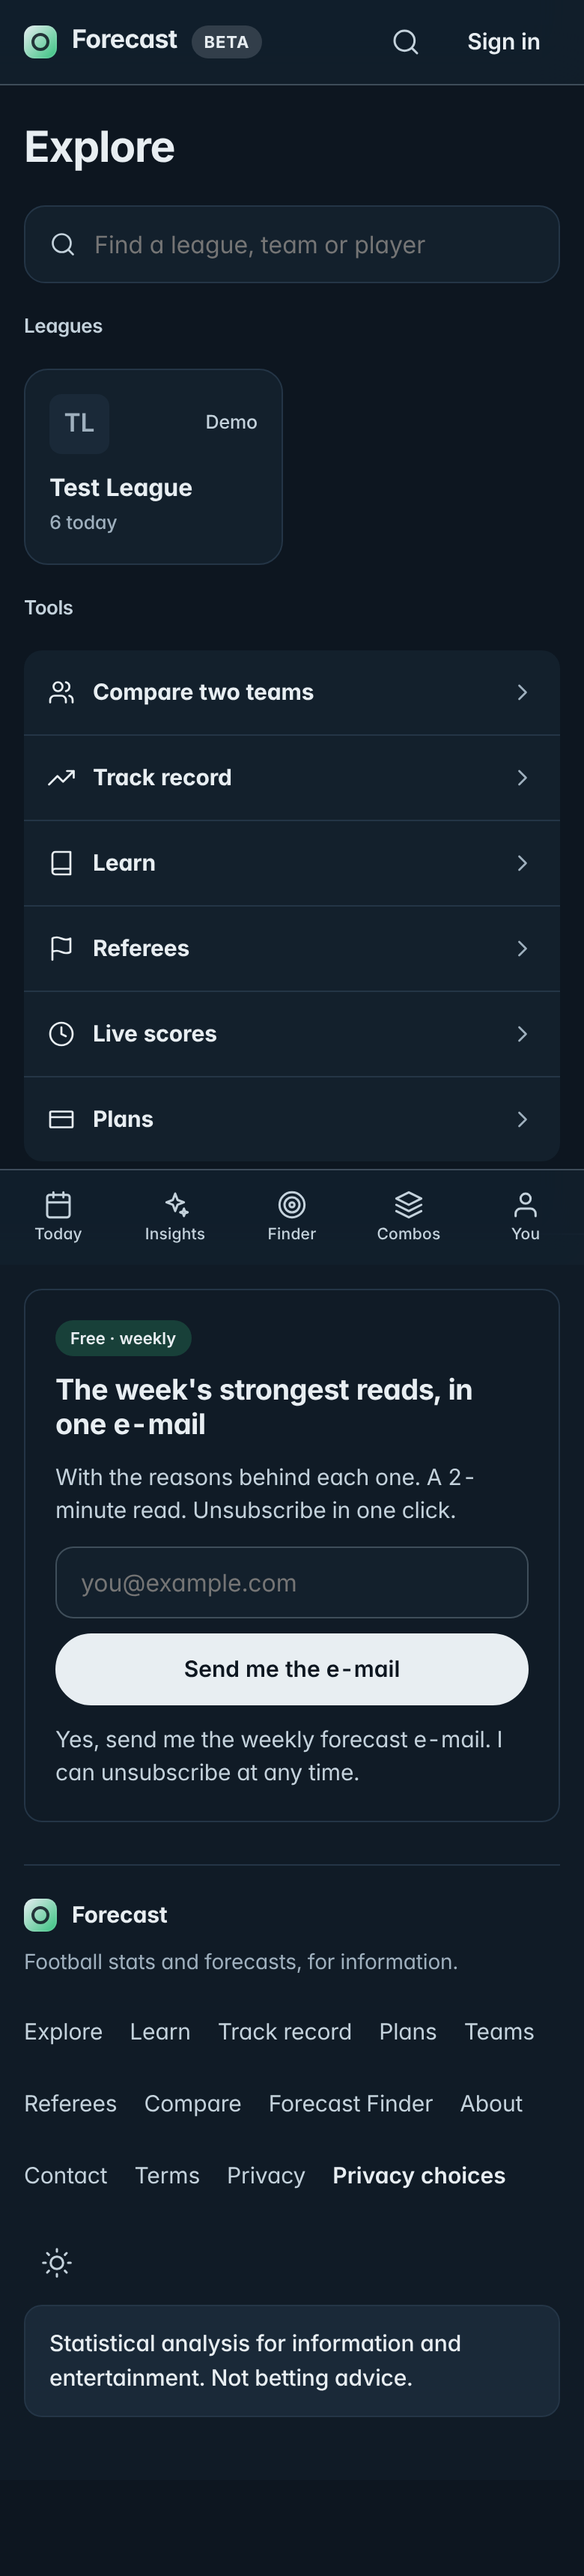
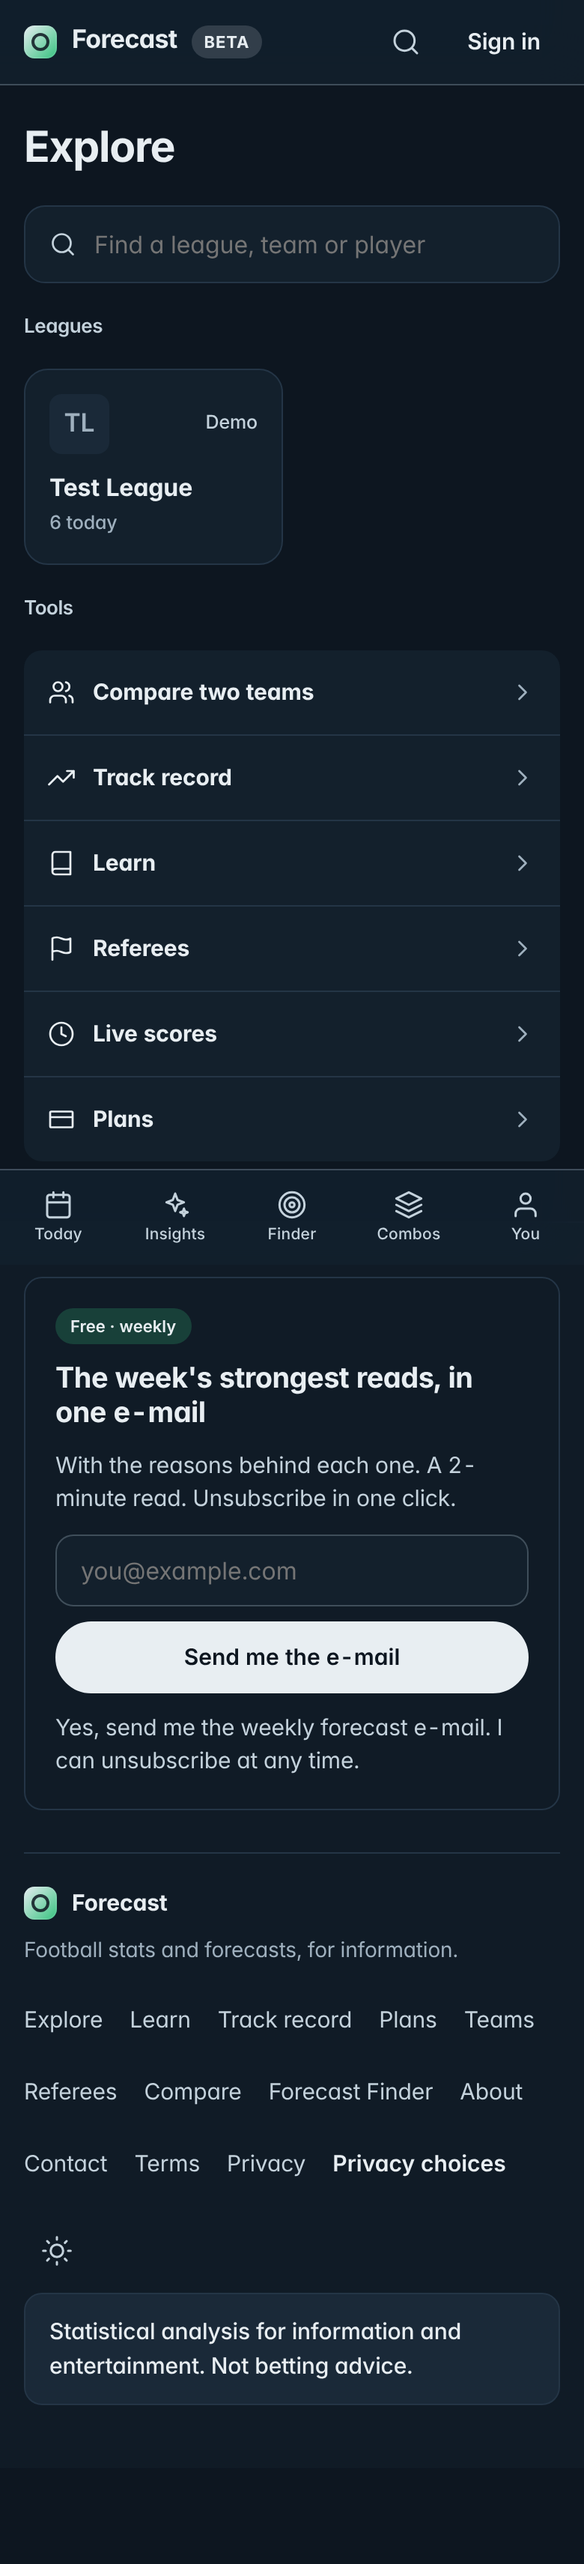
v2: fixes the full sweep found, and the design record
Sweeping all 24 routes at two widths in both colour schemes turns up what looking at three pages
cannot.

Every short page carried a dead band of roughly 500px. `.main` had `min-height: 62vh`, so Plans,
Combos and Track record each rendered a short card, then a screenful of nothing, then the e-mail
block. The intent was to keep the footer off the fold; the effect was to make an empty page look
broken. A short page should be short. Found on three separate pages before fixing it, so it is the
layout and not one screen's bug.

Track record had no visible title at all: its h1 was screen-reader only, so the one page whose job
is to establish trust opened with a small centred caption, and then centred its content against the
left-aligned reading of every other screen.

Chip rows clipped their last option rather than wrapping, so filters existed that a reader could
neither see nor reach -- the same failure the game strip had in the Swiss pass, in a different
component.

docs/redesign/v2/README.md records the whole pass: the argument, what was there, what changed and
why, the measurements, and what is deliberately left undone. The last list matters as much as the
first. The navigation overlap and the Finder's buried query sentence are both real and both
information architecture, which moves routes, tests and analytics; the content levers behind the
feed of near-certainties are engine settings, not stylesheet ones, and this branch was asked to
stay visual.
[…]

diff --git a/frontend/src/styles/v2.css b/frontend/src/styles/v2.css
@@ -483,3 +483,30 @@ h2, .k-sec, .td-sec-head h2, .ins h2, .mc-sec h2, .pr h2, .tm h2, .fg-head h3, .
 /* e) Tables are measurements: chalk rules, tabular figures, no zebra fill. */
 .tbl th, .a-table th { font-stretch: 92%; font-weight: 600; color: var(--text3); }
 .tbl td, .tbl th { border-color: var(--border); }
+
+
+/* =============================================================== 17. WHAT THE 96-SHOT SWEEP FOUND
+   Sweeping every route in both schemes at both widths turns up what looking at three pages cannot. */
+
+/* a) Track record opened with a small centred caption and no visible title -- its h1 was
+      screen-reader only -- so the one page whose job is to establish trust began by whispering, and
+      then centred everything, which fights the left-aligned reading of every other screen. */
+.tr, .tr-hero, .tr-wait { text-align: left; }
+.tr-sub { margin: 2px 0 16px; }
+.tr-wait { display: grid; gap: 12px; justify-items: start; max-width: 60ch; }
+
+/* b) Chip rows clipped their last option ("Tackle...") instead of wrapping, so filters existed that
+      a reader could not see or reach. A collection wraps before it hides anything (the same rule
+      the game strip needed in the Swiss pass). */
+.k-chips { flex-wrap: wrap; overflow-x: visible; row-gap: 8px; }
+
+/* c) An empty state left ~700px of dead space before the footer, because the page reserves the
+      chart's grid area whether or not there is a chart. An empty page should be short. */
+.tr-grid2:has(.k-empty) { display: block; }
+.tr .k-empty, .k-empty { padding: 28px 20px; }
+
+/* d) The dead band on every short page. `.main` carried `min-height: 62vh`, which on an 844px phone
+      reserves 523px whatever the content, so Plans and Track record both showed a short card, then
+      a screenful of nothing, then the e-mail block. The intent was to keep the footer off the fold;
+      the effect was to make an empty page look broken. A short page should be short. */
+.main { min-height: 0; padding-bottom: 40px; }

diff --git a/frontend/src/pages/TrackRecord.jsx b/frontend/src/pages/TrackRecord.jsx
@@ -71,8 +71,10 @@ export default function TrackRecord() {
   useTitle("Track record");
   return (
     <section className="tr" data-testid="track-record-page">
-      <small className="k-sec">Track record · updated as matches finish</small>
-      <h1 className="sr-only">Track record</h1>
+      {/* The page had no visible title: the h1 was screen-reader only and the page opened with a
+          small caption, so the one screen whose job is to establish trust began by whispering. */}
+      <h1>Track record</h1>
+      <p className="k-faint tr-sub">Updated as matches finish.</p>
       <div className="tr-filters">
         <ChipsRow label="League" value={league} onChange={(v) => set("league", v)} testid="tr-league" options={[{ id: "", label: "All leagues" }, ...leagues.map((l) => ({ id: l.id, label: l.name }))]} />
         <ChipsRow label="Market" value={stat} onChange={(v) => set("stat", v)} testid="tr-market" options={MARKETS} />

diff --git a/docs/redesign/v2/README.md b/docs/redesign/v2/README.md
@@ -1,0 +1,122 @@
+# v2 redesign — "chalk on slate"
+
+Branch `redesign/world-class`. `main` untouched. Driven by the **frontend-design** skill, which asks
+for a written plan reviewed against the brief before any code is written.
+
+Read in this order:
+
+| | |
+|---|---|
+| `PLAN.md` | the design plan: brief, concept, tokens, and the alternatives rejected with reasons |
+| `UX_AUDIT.md` | the questions asked of the existing design, answered from what is on screen |
+| this file | what changed, and what is deliberately not done |
+
+## The argument
+
+The product sells one sentence: *here is something about this match you would not have guessed.*
+Its own thesis, argued across docs/50 to docs/56, is sharper than "show data nicely":
+
+> A forecast is only worth showing if it could have come out differently.
+
+So the design's job is to make **"could have come out differently" visible without words**. If a
+reader can tell a real claim from a truism before reading anything, the design has worked. That is
+the test every decision below was judged against.
+
+## What was there
+
+A competent Apple HIG clone with a Swiss typographic pass over it. Both were real improvements.
+Neither was *this product*:
+
+| | before |
+|---|---|
+| Palette | Apple system blue on Apple greys |
+| Type | the `-apple-system` stack |
+| Form | rounded cards, one radius, one grey shadow, in a vertical stack |
+| The number | 28px, beside a 17px label — sized like a label, not like the subject |
+| The evidence | ten green boxes reading "10 of 10 reached it" |
+
+The last two actively fought the thesis: a near-certainty and a real claim were drawn identically.
+
+## What changed
+
+### 1. Ground and ink
+"Chalk on slate": a deliberately hued blue slate, chalk ink, and **three semantic colours that are
+the only hues in the interface**. No brand accent — in a product whose job is to signal whether a
+number means something, spending a colour on identity steals it from meaning.
+
+Measured, both modes, before committing: lowest text pair 5.38:1 against a 3.0 threshold, every
+BLOCK_PAIR and WARN_PAIR passing. The palette lives in Site Studio as the **Chalk** preset and the
+new default; the Apple palette is kept as a preset, exactly as Midnight was when it was replaced.
+
+### 2. Type
+**Archivo**, self-hosted, one family, with the **width axis** carrying hierarchy from a condensed
+data label to an extended headline. A second family would be a costume; a monospace face for data
+labels is a generated-page tell.
+
+### 3. The evidence mark
+The card's bar was a filled likelihood meter. **A filled meter says "this number is big", which is
+the one conclusion a reader must not draw, because a big number is exactly what a truism looks
+like.** It now reads as a measurement: the band is the likely range, a segment runs from what the
+entity usually does to what it does in this fixture — length is the size of the claim, colour is
+the direction — and a chalk tick marks the usual.
+
+### 4. The run
+`RunStrip`. A column per game standing to its own figure, with the line drawn across as a dashed
+rule. Where the rule falls is the message:
+
+- **through the middle of the run** — a real question, worth a forecast;
+- **flat along the bottom** — every column clears it; a truism.
+
+This replaces ten filled-or-empty squares that could not tell a quiet game from a busy one, and it
+is now on the player page rather than only inside two overlays.
+
+### 5. Structure (from UX_AUDIT)
+Measured: on a 390×844 phone the first forecast on Insights sat at **913px — below the fold**,
+behind eleven controls and a 542px filter panel. **Now 476px**, a 48% reduction.
+
+| Decision | Change |
+|---|---|
+| Answer first, filter second | one compact bar; every filter in one grouped sheet |
+| Drop the no-op control | the likelihood floor defaulted to 0 and held a full row |
+| Group by the unit readers think in | the feed groups by fixture, with clubs and kick-off |
+| Reading, not administering | "Show more matches" replaces "Per page 25" and page buttons |
+| Card diet | "Usually 79%" and "Hit in 19 of his last 20" both restated what the bar now draws |
+| Demote the secondary action | the add-to-combo "+" held the best corner of every card |
+| No carousel inside a scrolling page | Today's Top 3 became three rows; the second was clipped before |
+| The page is about the match | the match hero takes weight; group headings outrank their cards |
+| The trust page gets the size | "when we say 78%, it happens 81%" is now the largest type in the product |
+
+### 6. What the 96-shot sweep found
+Sweeping all 24 routes × 2 widths × 2 schemes turns up what three pages cannot:
+
+- **Light mode had no identity.** It had inherited white cards on near-white with a shadow under
+  each — the page every product in this category ships. It now earns it the way a printed results
+  page does: paper is the surface, panels are separated by rules, a card inside a card loses its
+  second border.
+- **Track record had no visible title** — its `h1` was `sr-only`, so the one page whose job is trust
+  opened with a small centred caption.
+- **Chip rows clipped their last option** instead of wrapping, so filters existed that a reader
+  could not see or reach.
+- **Every short page had a ~500px dead band.** `.main` carried `min-height: 62vh`, so Plans,
+  Combos and Track record each showed a short card, a screenful of nothing, then the e-mail block.
+
+## What is deliberately not done
+
+- **The navigation overlap.** Today, Insights, Finder, Explore and Combos — four of six
+  destinations are ways to find a forecast, and a new reader cannot tell them apart. It is the
+  largest navigation problem in the product and it is an information-architecture change: it moves
+  routes, tests and analytics. It should not be smuggled into a redesign pass.
+- **The Finder's query sentence is the best interaction in the product** — plain English where every
+  underlined word is editable — and it is buried on a secondary page. Same reason.
+- **The content levers.** The feed is full of near-certainties because of `engine.min_span` and
+  `engine.personal_lines`, not because of the stylesheet. Asked to keep this branch visual.
+- **Admin.** Public screens only so far.
+
+## Checks
+
+| | |
+|---|---|
+| Backend self-tests | **42 PASS, 0 FAIL** |
+| Copy checker | passes |
+| Class names | none renamed or removed; new ones prefixed `v2-` |
+| Colour | only `var(--…)`, so an owner's palette still applies |
